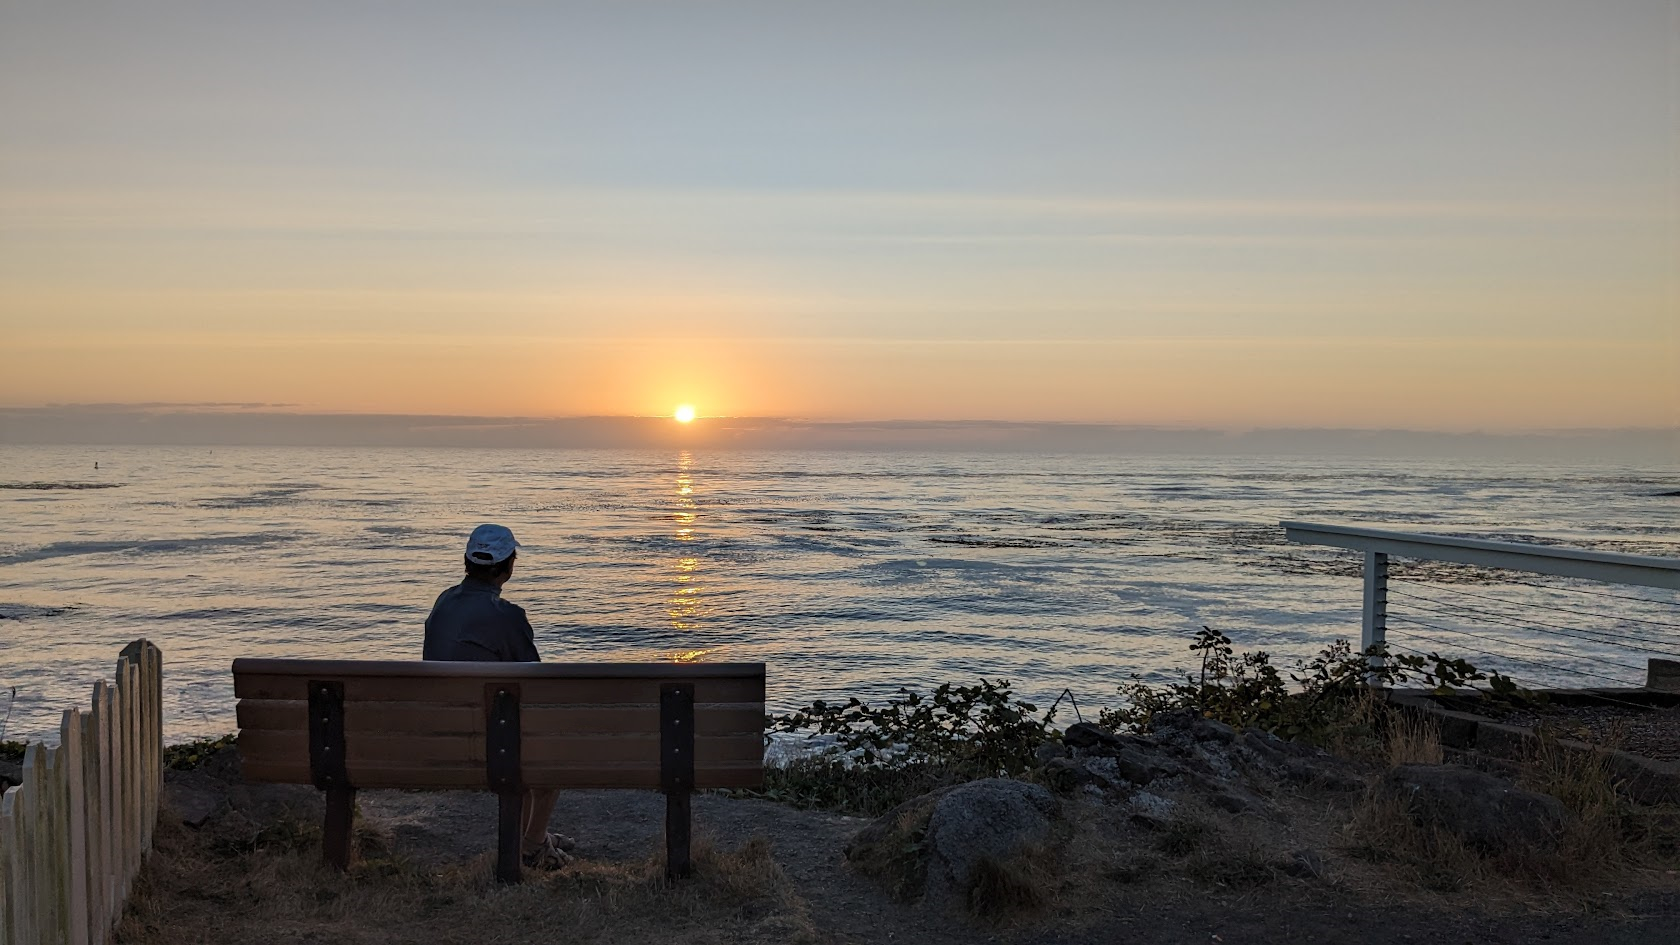
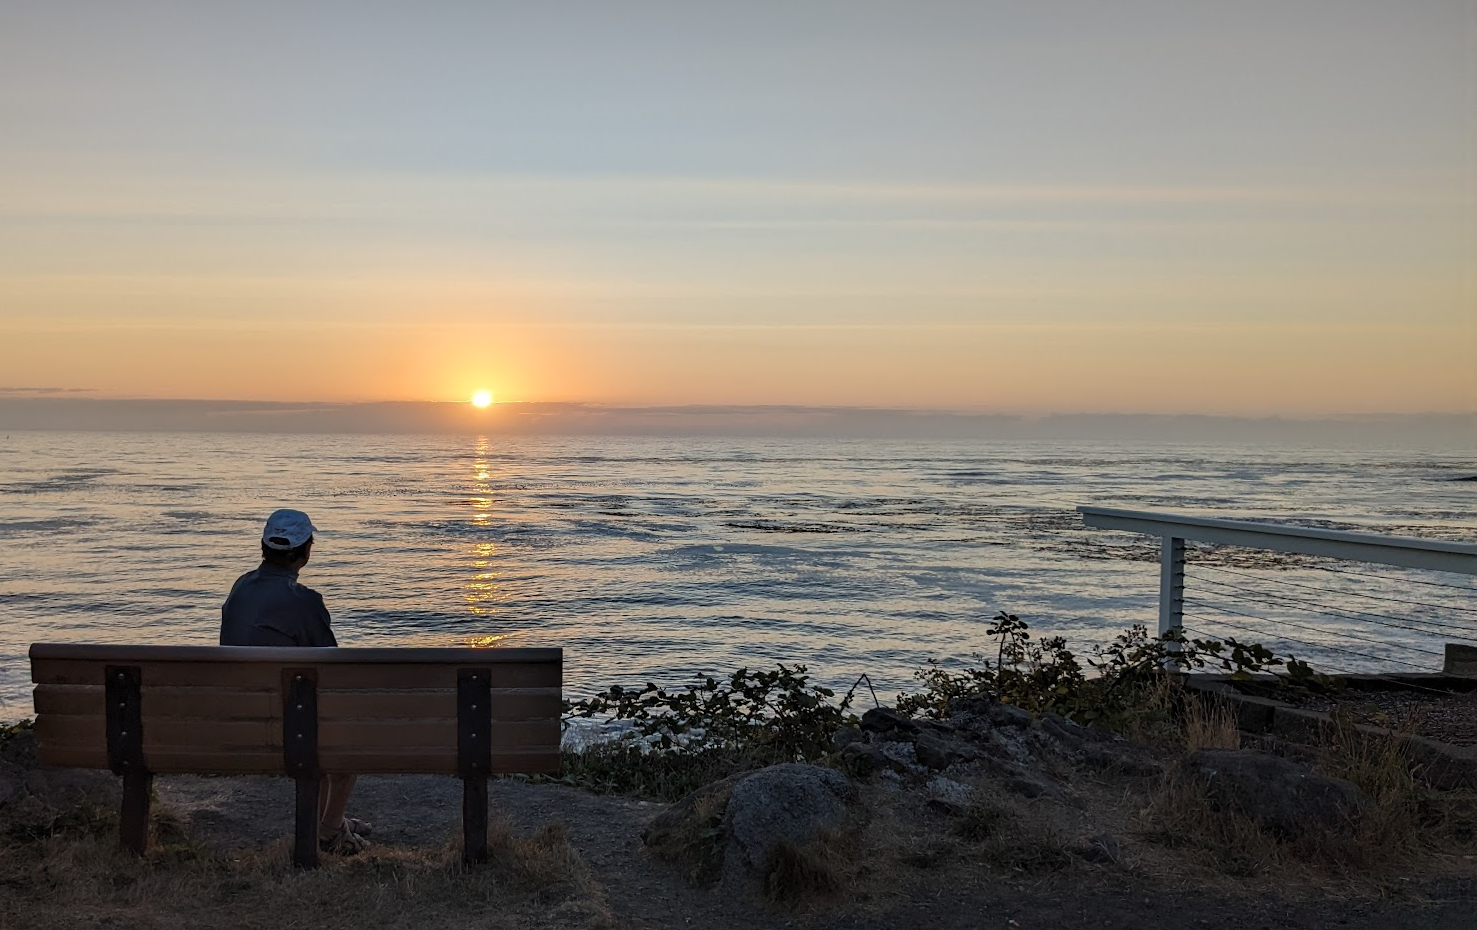
fernando's background image better positioned on different screen sizes

diff --git a/src/themes/hugo-scroll/layouts/_default/index.html b/src/themes/hugo-scroll/layouts/_default/index.html
@@ -11,7 +11,7 @@
   {{ $image_options := $.Site.Params.image_options | default "webp q90 lanczos photo" -}}
   <style>
   /* Default cover for larger screens, converted to webp */
-  {{- with $img.Resize ( printf "%dx%d %s" $img.Width $img.Height $image_options ) -}}
+  {{- with $img.Resize ( printf "%dx%d left %s" $img.Width $img.Height $image_options ) -}}
   #site-head.withCenteredImage {
     background-image: url('{{- .RelPermalink -}}');
   }
@@ -22,7 +22,7 @@
   We set __both__ max-width and max-height to make sure the image is never upscaled.
   */
   {{ range $width := slice 1920 1600 1366 }}
-    {{- with $img.Resize ( printf "%dx %s" $width $image_options ) }}
+    {{- with $img.Resize ( printf "%dx left %s" $width $image_options ) }}
     @media (max-width: {{- .Width -}}px) and (max-height: {{- .Height -}}px) {
       #site-head.withCenteredImage { background-image: url('{{- .RelPermalink -}}'); }
     }
@@ -38,8 +38,8 @@
   */
   {{- $img_temp := $img.Resize "x1024 q100" -}}/* high quality temporary image, to be cropped later */
   {{ range $width := slice 900 600 360 }}
-    {{- with $img_temp.Crop ( printf "%dx1024 center %s" $width $image_options ) }}
-    @media (max-height: {{- .Height -}}px) and (max-aspect-ratio: {{ .Width }} / {{ .Height }}) {
+    {{- with $img_temp.Crop ( printf "%dx1024 left %s" $width $image_options ) }}
+    @media (max-height: {{- .Height -}}px) and (max-aspect-ratio: {{ .Width  }} / {{ .Height }}) {
       #site-head.withCenteredImage { background-image: url('{{- .RelPermalink -}}'); }
     }
     {{- end }}
